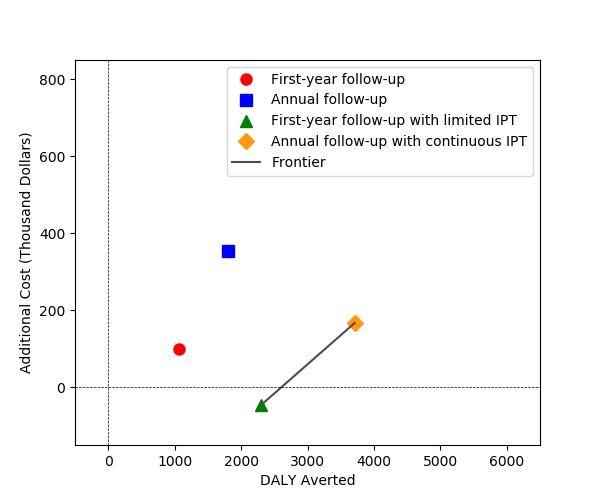
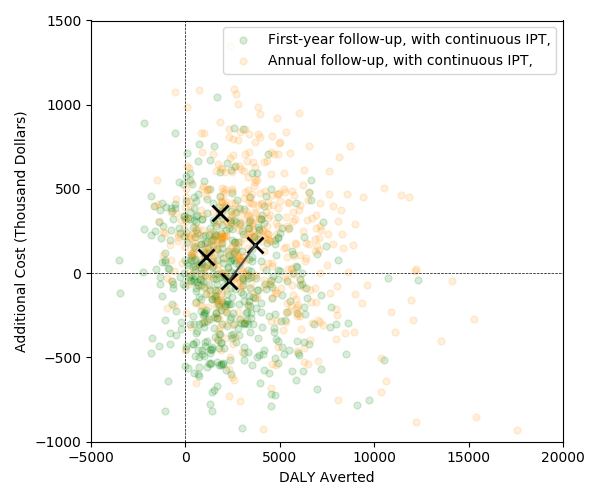
tb CEA with clouds

diff --git a/tb/TB_CEA.py b/tb/TB_CEA.py
@@ -1,5 +1,6 @@
 import matplotlib.pyplot as plt
 import apace.ScenariosClasses as Cls
+import numpy as np
 
 markers = ['o', 's', '^', 'D']
 colors = ['r', 'b', 'g', '#FF9912']
@@ -33,7 +34,7 @@ varConditions = [
                           maximum=1,
                           if_included_in_label=True,
                           label_rules=[
-                              (0, 'no IPT'),
+                              (0, ''),
                               (1, 'with continuous IPT')]
                           )
 ]
@@ -62,6 +63,8 @@ Cls.populate_series(series,
                     cost_multiplier=1 / 1e3)
 
 # CBA
+del series[0].CBA._strategies[1:3]
+
 series[0].CBA.graph_incremental_NMBs(
     min_wtp=0,
     max_wtp=1000,
@@ -80,11 +83,15 @@ print(series[0].CEA.get_dCost_dEffect_cer(interval_type='p',
                                           cost_digits=0, effect_digits=0, icer_digits=1,
                                           cost_multiplier=1, effect_multiplier=1))
 
+withCloud = True
+
 # plot
 fig, ax = plt.subplots(figsize=(6, 5))
 for i, ser in enumerate(series):
-    for j, x_value in enumerate(ser.xValues):
-        ax.plot(x_value, ser.yValues[j], markers[j], color=colors[j], markersize=8, mew=1)
+
+    if not withCloud:
+        for j, x_value in enumerate(ser.xValues):
+            ax.plot(x_value, ser.yValues[j], markers[j], color=colors[j], markersize=8, mew=1)
 
         # # error bars
         # x_err_l = x_value-ser.xIntervals[j][0]
@@ -98,42 +105,54 @@ for i, ser in enumerate(series):
         # #             fmt='none', color='k', linewidth=1, alpha=0.4)
 
     # add the clouds
-    if False:
-        for s in ser.CEA.get_shifted_strategies():
+    if withCloud:
+        for idx, s in enumerate(ser.CEA.get_shifted_strategies()):
             # add the center of the cloud
-            plt.plot(s.aveEffect, s.aveCost,
-                     c='k',  # color
-                     alpha=1,  # transparency
-                     linewidth=2,  # line width
-                     marker='x',  # markers
-                     markersize=12,  # marker size
-                     markeredgewidth=2)  # marker edge width
+            ax.plot(s.aveEffect, s.aveCost/1000,
+                    c='k',  # color
+                    alpha=1,  # transparency
+                    linewidth=2,  # line width
+                    marker='x',  # markers
+                    markersize=12,  # marker size
+                    markeredgewidth=2)  # marker edge width
             # add the cloud
-            if not s.ifDominated:
-                plt.scatter(s.effectObs, s.costObs,
-                            c=s.color,  # color of dots
-                            alpha=0.15,  # transparency of dots
-                            s=25,  # size of dots
-                            label=s.name)  # name to show in the legend
+            #if not s.ifDominated:
+            if idx >= 2:
+                ax.scatter(s.effectObs, np.divide(s.costObs, 1000),
+                           c=s.color,  # color of dots
+                           alpha=0.15,  # transparency of dots
+                           s=25,  # size of dots
+                           label=s.name)  # name to show in the legend
 
     # add frontier
     ax.plot(ser.frontierXValues, ser.frontierYValues, color=ser.color, alpha=1)
 
-    # legend
-    leg = ['First-year follow-up',
-           'Annual follow-up',
-           'First-year follow-up with limited IPT',
-           'Annual follow-up with continuous IPT',
-           'Frontier']
-    #ser.legend.append('Frontier')
-    ax.legend(leg, loc=1) #ser.legend
+    if withCloud:
+        ax.legend()
+    else:
+        # legend
+        leg = ['First-year follow-up',
+               'Annual follow-up',
+               'First-year follow-up with limited IPT',
+               'Annual follow-up with continuous IPT',
+               'Frontier']
+        #ser.legend.append('Frontier')
+        ax.legend(leg, loc=1) #ser.legend
 
-plt.xlabel('DALY Averted')
-plt.ylabel('Additional Cost (Thousand Dollars)')
-plt.xlim(-500, 6500)
-plt.ylim(-150, 850)
-plt.axvline(x=0, linestyle='--', color='black', linewidth=.5)
-plt.axhline(y=0, linestyle='--', color='black', linewidth=.5)
+ax.set_xlabel('DALY Averted')
+ax.set_ylabel('Additional Cost (Thousand Dollars)')
+
+if withCloud:
+    ax.set_xlim(-5000, 20000)
+    ax.set_ylim(-1000, 1500)
+else:
+    ax.set_xlim(-5000, 20000)  # (-500, 6500)
+    ax.set_ylim(-1000, 1500)  # (-150, 850)
+
+ax.axvline(x=0, linestyle='--', color='black', linewidth=.5)
+ax.axhline(y=0, linestyle='--', color='black', linewidth=.5)
+
+plt.tight_layout()
 plt.savefig('figures/cea/'
             + 'CEA U{:.{prec}f}% '.format(PROB_UPTAKE * 100, prec=0)
             + 'D{:.{prec}f}%'.format(PROB_DROPOUT * 100, prec=0)
